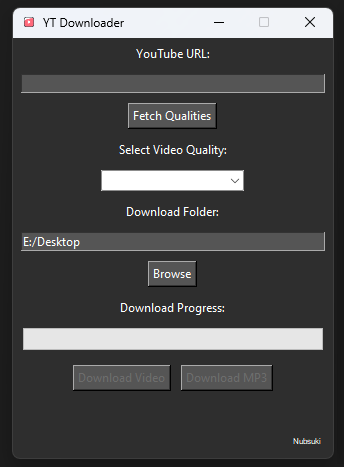
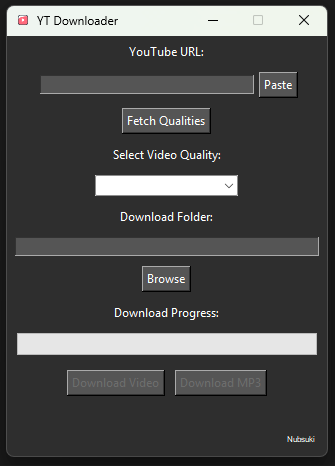
Update README

Changed region(s): [[0.0299, 0.1502, 0.9552, 0.8712], [0.0, 0.0, 0.9851, 0.1502], [0.0597, 0.9313, 0.9552, 0.9914]]

diff --git a/Readme.md b/Readme.md
@@ -8,7 +8,7 @@ A simple and easy-to-use application to download YouTube videos and audios. Just
 ![Downloader](ytvd.png)
 
 ### How to Use:
-1. **Enter Video URL**: Copy the YouTube video URL and paste it into the URL input field.
+1. **Enter Video URL**: Copy the YouTube video URL and paste it into the URL input field or press "Paste".
 2. **Fetch Qualities**: Click the **Fetch Qualities** button. Wait until the button becomes active (black) again, indicating that it has finished fetching the available video qualities.
 3. **Select Quality**: Choose your desired video quality from the dropdown menu.
 4. **Choose Download Location**: Select the folder where you want to save the downloaded video.
